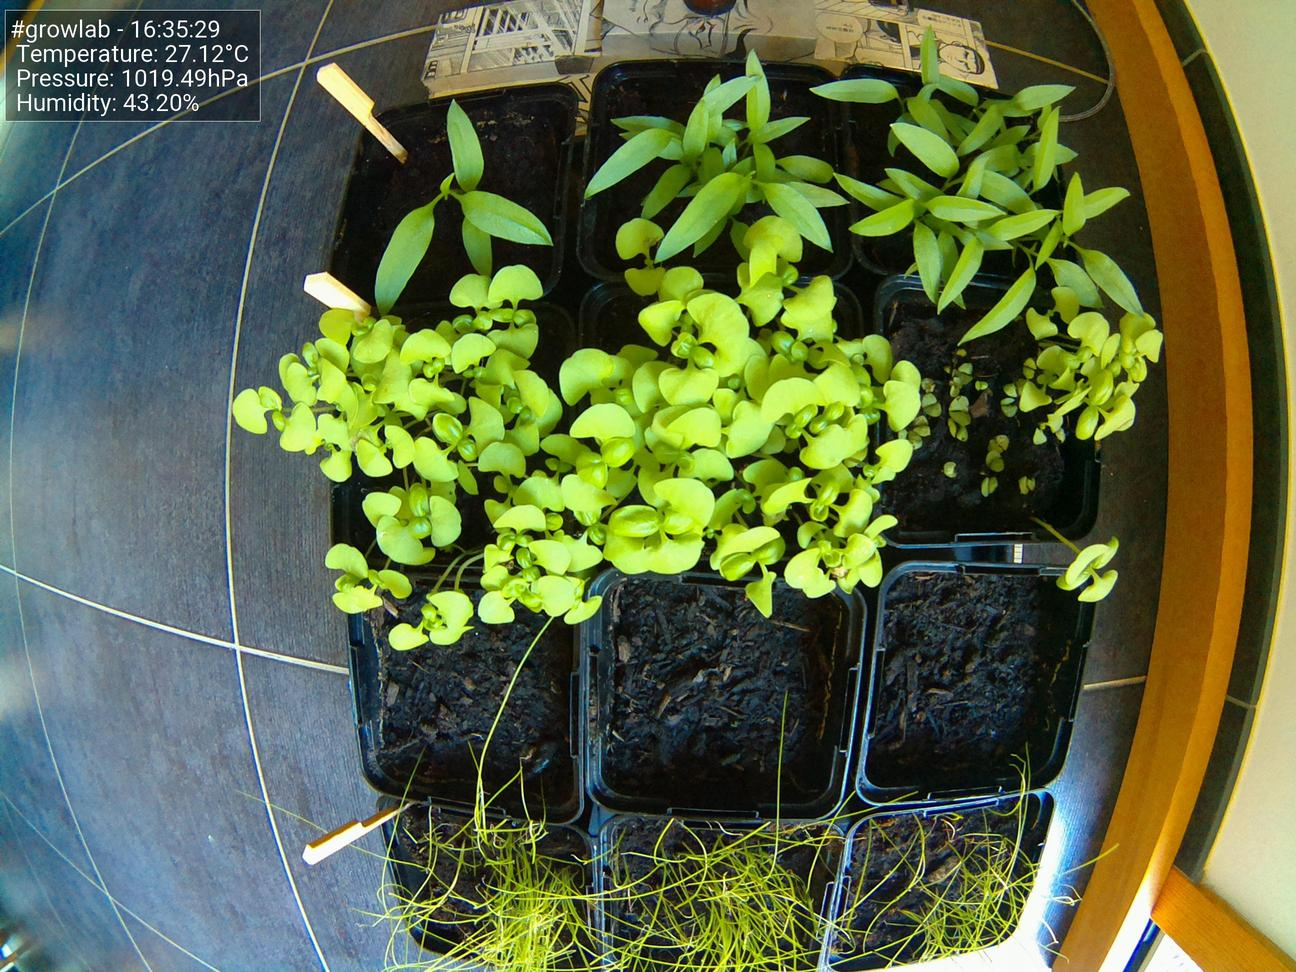
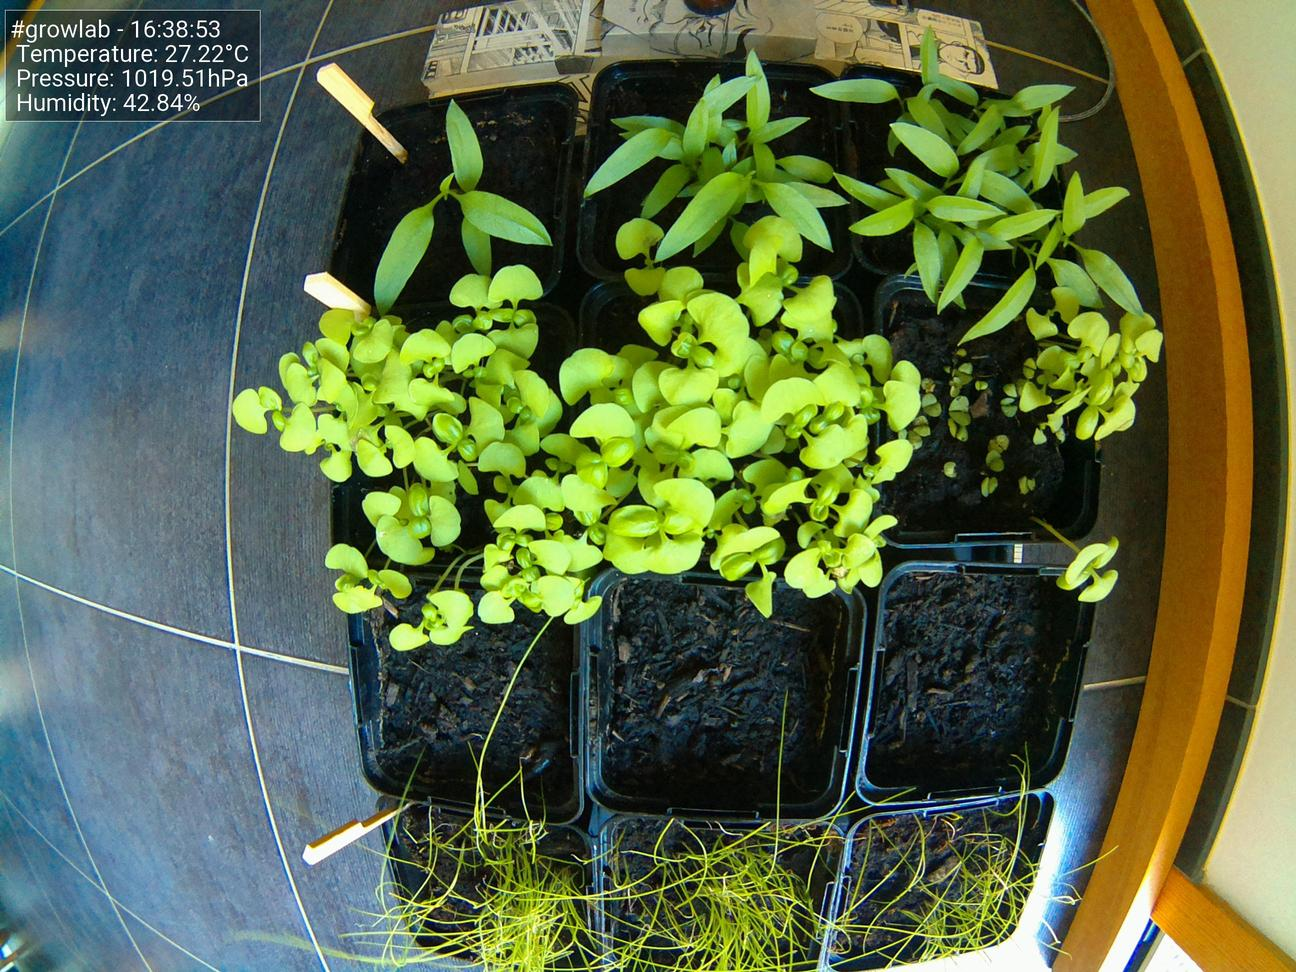
Update images at Sun 13 Jun 16:39:02 CEST 2021

diff --git a/index.html b/index.html
@@ -47,19 +47,19 @@
                         <tbody>
                             <tr>
                                 <td>Time</td>
-                                <td>16:35:29</td>
+                                <td>16:38:53</td>
                             </tr>
                             <tr>
                                 <td>Temperature</td>
-                                <td>27.12°C</td>
+                                <td>27.22°C</td>
                             </tr>
                             <tr>
                                 <td>Humidity</td>
-                                <td>43.20%</td>
+                                <td>42.84%</td>
                             </tr>
                             <tr>
                                 <td>Pressure</td>
-                                <td>1019.49hPa</td>
+                                <td>1019.51hPa</td>
                             </tr>
                         </tbody>
                     </table>
@@ -67,7 +67,7 @@
 
                 <h5>Latest image</h5>
                 <div style="width: 85%;">
-                            <img class="figure-img img-fluid rounded" src="./preview.jpg?uid=1623594938.1288443">
+                            <img class="figure-img img-fluid rounded" src="./preview.jpg?uid=1623595142.2252052">
                 </div>
             </div>
         </div>
